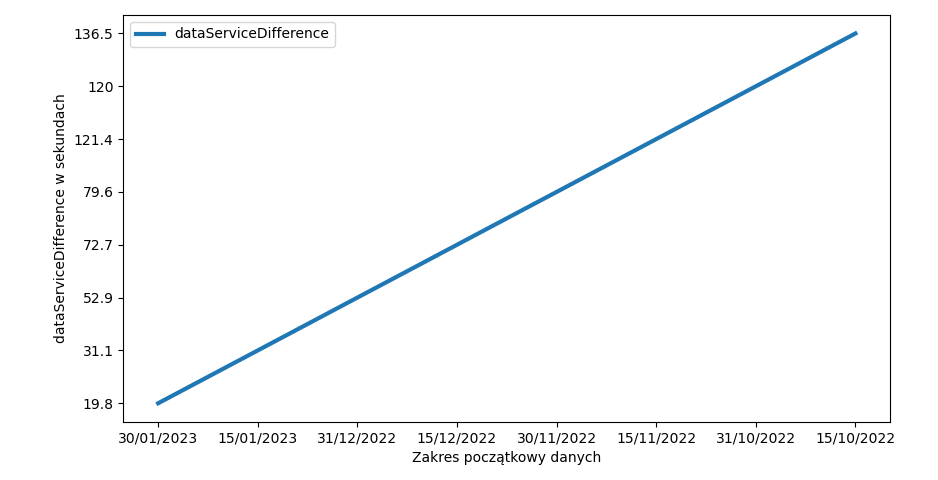
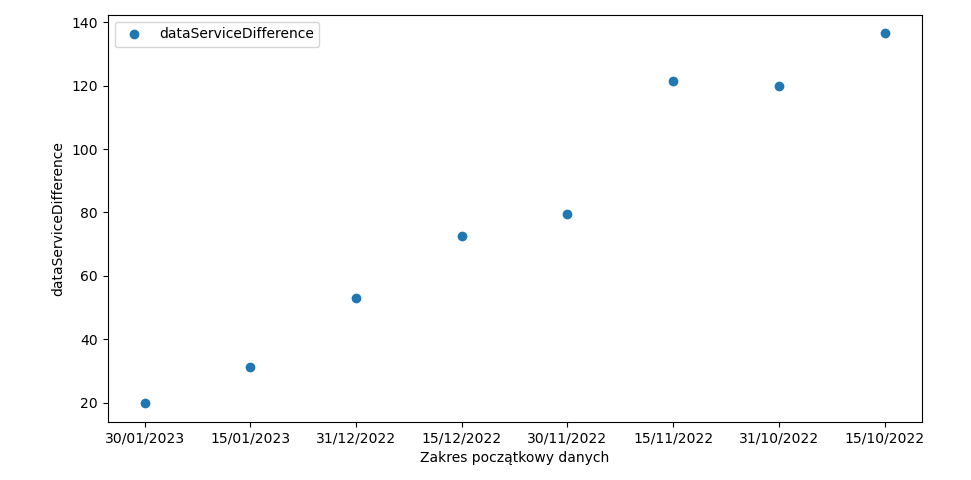
Date correction

diff --git a/plots-generator/plots.py b/plots-generator/plots.py
@@ -4,11 +4,14 @@ import csv
 from datetime import datetime
 import math
 
-def draw_plots(x, y, names, labels):
+def draw_plots(x, y, names, labels, data_in_x=False):
     plt.clf()
     xpoints = np.array(x)
     ypoints = np.array(y)
-    plt.plot(xpoints, ypoints, label=labels, linewidth=3)
+    if data_in_x:
+        plt.plot_date(xpoints, ypoints, label=labels, linewidth=3, xdate=data_in_x)
+    else:
+        plt.plot(xpoints, ypoints, label=labels, linewidth=3)
     plt.xlabel(names[0])
     plt.ylabel(names[1])
     plt.legend()
@@ -29,10 +32,8 @@ def handle_data_service_metrics(path):
 
     for i, name in enumerate(names[1:]):
         new_data = []
-        print(i, name)
         for el in data:
             new_data.append(el[i])
-        print(new_data)
         draw_plots(number_of_requests, new_data, ['number_of_requests', name], name)
 
 def handle_history_times(path):
@@ -46,13 +47,13 @@ def handle_history_times(path):
         names = spamreader[0]
         for row in spamreader[1:]:
             from_date.append(row[0])
-            dataServiceDifference.append(row[3])
+            dataServiceDifference.append(float(row[3]))
             t1 = datetime.strptime(row[4], fmt)
             t2 = datetime.strptime(row[5], fmt)
             renderDifference.append((t2 - t1).total_seconds())
 
-    draw_plots(from_date, dataServiceDifference, ['Zakres początkowy danych', names[3] + ' w sekundach'], names[3])
-    draw_plots(from_date, renderDifference, ['Zakres początkowy danych', names[6] + ' w sekundach'], names[6])
+    draw_plots(from_date, dataServiceDifference, ['Zakres początkowy danych', names[3]], names[3], True)
+    draw_plots(from_date, renderDifference, ['Zakres początkowy danych', names[6]], names[6], True)
 
 def draw_bar_plot(x, names, labels):
     plt.clf()
@@ -78,4 +79,5 @@ def main_page_times(path):
     draw_bar_plot(data[0], names, ['Metryka', 'Czas w milisekundach'])
 
 
-main_page_times('main-page-times.csv')
+#handle_history_times('history-times.csv')
+#handle_data_service_metrics('data-service-metrics.csv')
